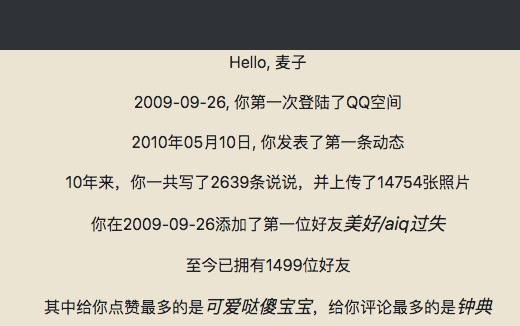
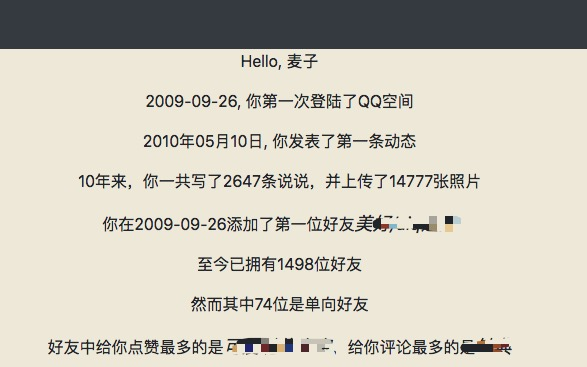
update

diff --git a/src/web/templates/config.html b/src/web/templates/config.html
@@ -142,7 +142,7 @@
                 <p>你在{$user.first_friend_time$}添加了第一位好友<i class="highlight-keyword">{$user.first_friend$}</i></p>
                 <p>至今已拥有{$user.friend_num$}位好友</p>
                 <p ms-visible="@user.single_friend > 0">然而其中{$user.single_friend$}位是单向好友</p>
-                <p>其中给你点赞最多的是<i class="highlight-keyword">{$user.like_friend_name$}</i>，给你评论最多的是<i
+                <p>好友中给你点赞最多的是<i class="highlight-keyword">{$user.like_friend_name$}</i>，给你评论最多的是<i
                         class="highlight-keyword">{$user.cmt_friend_name$}</i></p>
             </div>
             <div class="large_dom" id="history_dom">
